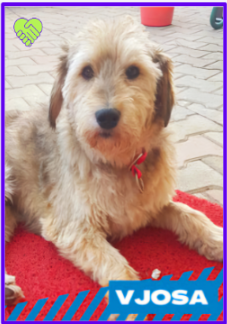
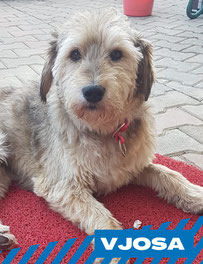
Update nft images 	new file:   public/img/donatee/0.png 	new file:   public/img/donatee/1.png 	deleted:    public/img/donatee/10.jpg 	deleted:    public/img/donatee/11.jpg 	deleted:    public/img/donatee/12.jpg 	deleted:    public/img/donatee/13.jpg 	deleted:    public/img/donatee/14.jpg 	new file: 

diff --git a/frontend/src/pages/Receipts.js b/frontend/src/pages/Receipts.js
@@ -111,16 +111,10 @@ export const Receipts = () => {
                                                 <Button sx={{ width: .9 }}
                                                     variant="outlined" component={NavLink}
                                                     target="nft"
-                                                    to={`https://solscan.io/token/${r.nft}?cluster=devnet#metadata`}
+                                                    to={`https://solscan.io/token/${r.signature}?cluster=devnet#metadata`}
                                                 >
                                                     View NFT
                                                 </Button>
-                                                <Link component={NavLink}
-                                                    target="pdf"
-                                                    to={`https://ug-hackathon-app.onrender.com/pdf/${r.nft}`}
-                                                >
-                                                    Download Receipt
-                                                </Link>
                                             </CardActions>
                                         </CardActionArea>
                                     </Card>

diff --git a/frontend/src/pages/Donatees.js b/frontend/src/pages/Donatees.js
@@ -48,7 +48,7 @@ export const Donatees = () => {
                         >
                             <CardMedia
                                 sx={{ height: 232 }}
-                                image={`/img/donatee/${r.id}.jpg`}
+                                image={`/img/donatee/${r.id}.png`}
                             />
                             <CardHeader
                                 titleTypographyProps={{ fontSize: "28px", fontWeight: 500 }}

diff --git a/frontend/src/index.js b/frontend/src/index.js
@@ -9,7 +9,7 @@ import { Provider } from 'react-redux';
 
 async function enableMocking() {
   if (process.env.NODE_ENV !== "development") return;
-  if (process.env.REACT_APP_MOCK_DISABLED) return;
+  //if (process.env.REACT_APP_MOCK_DISABLED) return;
   const { worker } = await import("./mocks/browser");
   return worker.start({
     onUnhandledRequest: "bypass",

diff --git a/frontend/src/mocks/handlers.js b/frontend/src/mocks/handlers.js
@@ -20,7 +20,7 @@ function generateReceipts(count = 10) {
             city: faker.location.city(),
             country: faker.location.country(),
             currency: faker.finance.currencySymbol(),
-            nft: "AGrdXTtjNYFazdHP31Jzmh4X3MwuWNakfjrCkHhfNTqP"
+            signature: "AGrdXTtjNYFazdHP31Jzmh4X3MwuWNakfjrCkHhfNTqP"
         }
     });
 }
